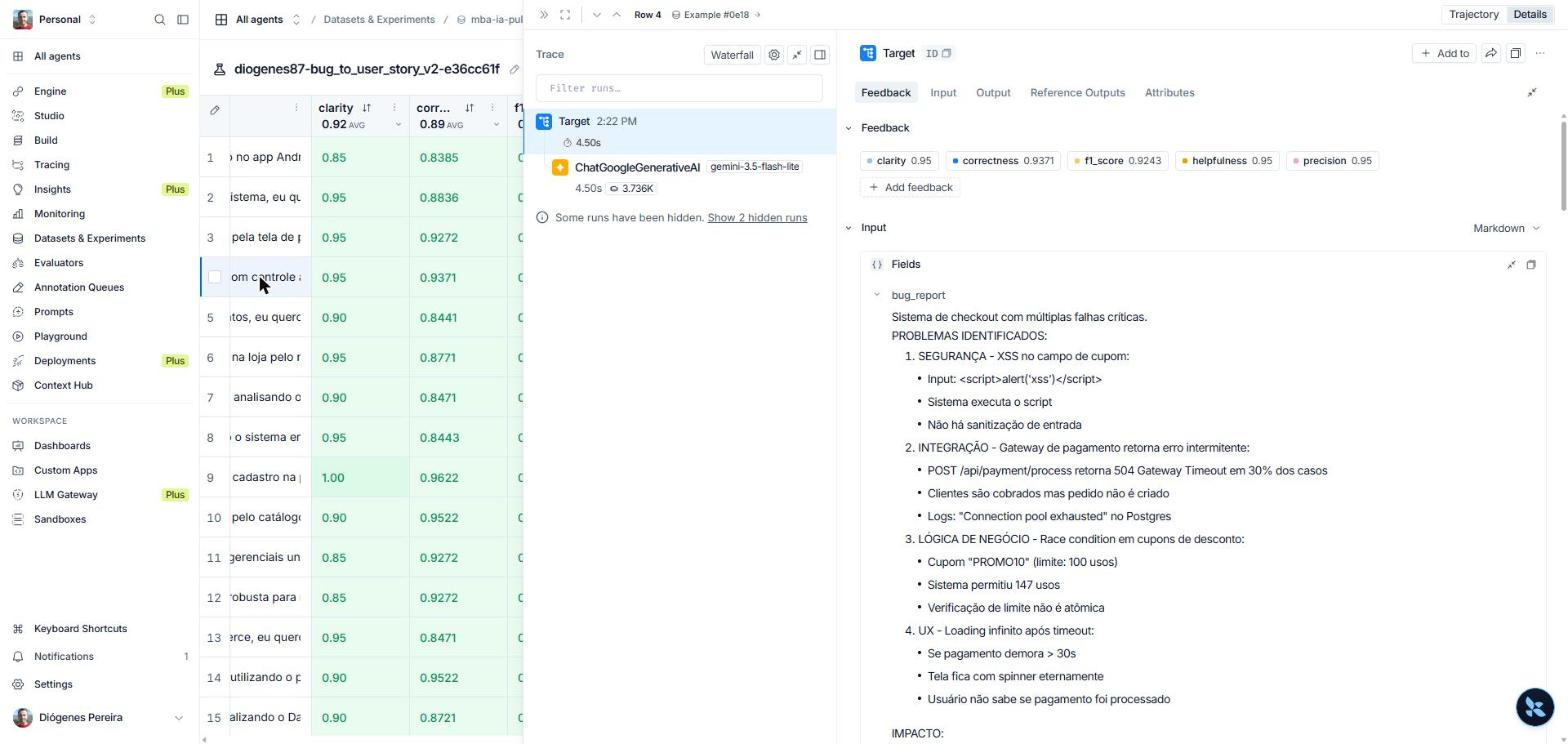
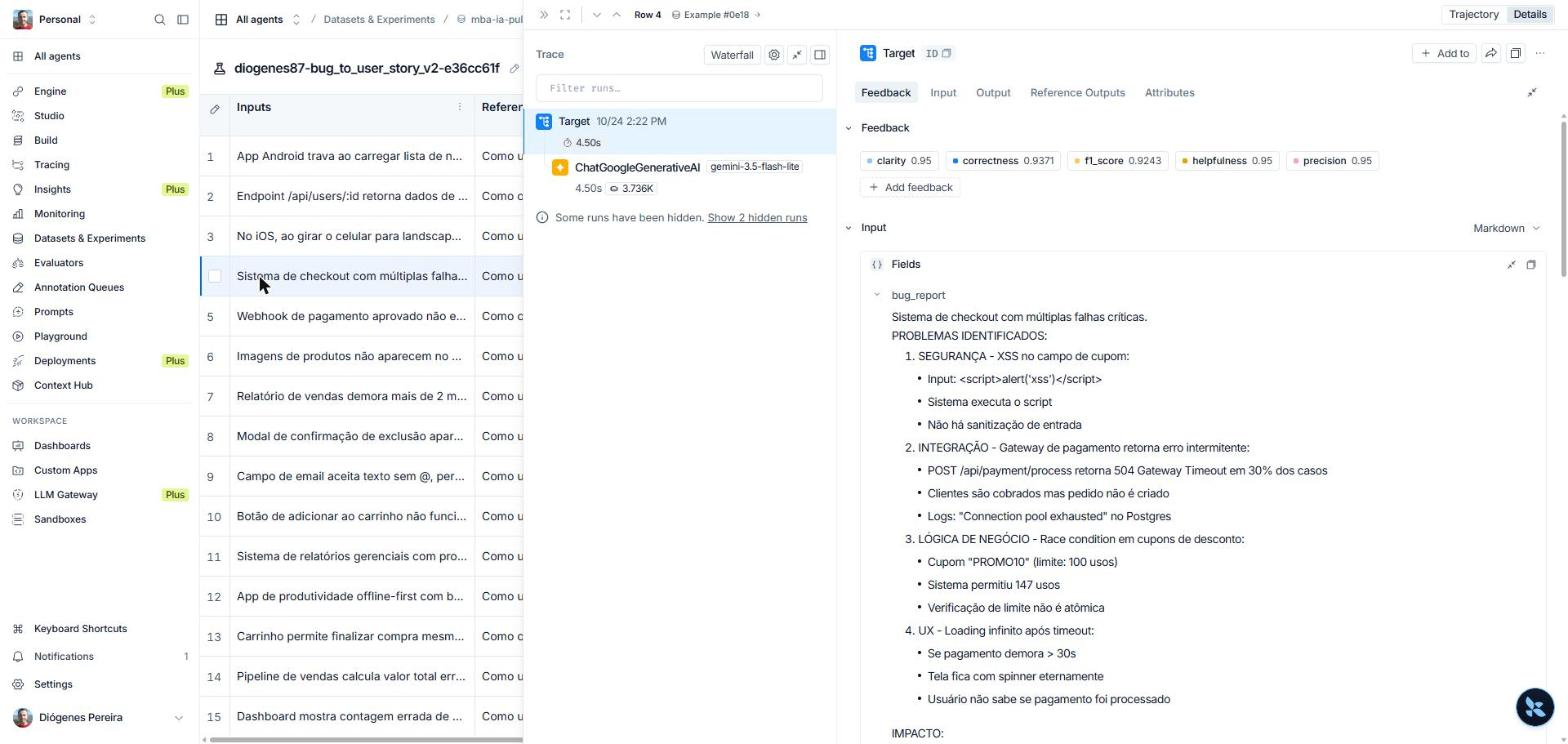
docs: recaptura evidencias do LangSmith com melhor qualidade
- Janela do navegador redimensionada antes da captura, eliminando a necessidade
  de rolar para ver todas as 5 métricas (clarity/correctness/f1/helpfulness/
  precision) e a latência em uma única imagem (01)
- Remove popups que apareciam nas capturas anteriores (painel "Get started")
- Nova evidência: reasoning do LLM-juiz expandido para um feedback individual,
  mostrando que cada nota tem justificativa registrada no LangSmith (02)
- Recaptura dos 3 tracings de exemplo (03-05) e do dataset público comparando
  os experimentos (06), todos sem popups e com texto mais legível
- Screenshots antigos preservados em docs/evidence/backup-v1/ para referência

diff --git a/README.md b/README.md
@@ -173,15 +173,15 @@ do processo:
 
 Screenshots (também em [`docs/evidence/`](./docs/evidence)):
 
-**Visão geral do experimento final (15/15 runs, 5 métricas por exemplo):**
+**Visão geral do experimento final (15/15 runs, as 5 métricas por exemplo e latência):**
 
 ![Métricas por exemplo](./docs/evidence/01-experimento-metricas-overview.jpg)
 
-**Mesma tabela, com as 5 colunas de métrica + custo/latência visíveis (médias no
-cabeçalho: clarity 0.92, correctness 0.89, f1 0.89, helpfulness 0.91, precision 0.89 —
-pequena diferença de arredondamento em relação aos 0.90 do terminal, mesmo resultado):**
+**Detalhe de um feedback individual, com o "reasoning" (justificativa) que o LLM-juiz
+gerou para a nota de Clarity — mostra que as notas não são arbitrárias, cada uma tem
+uma explicação registrada no LangSmith:**
 
-![Métricas completas com custo e latência](./docs/evidence/02-experimento-metricas-completas.jpg)
+![Reasoning do avaliador em um feedback](./docs/evidence/02-experimento-feedback-reasoning.jpg)
 
 **Tracing detalhado — exemplo 1 (bug médio, Android/notificações):**
 
